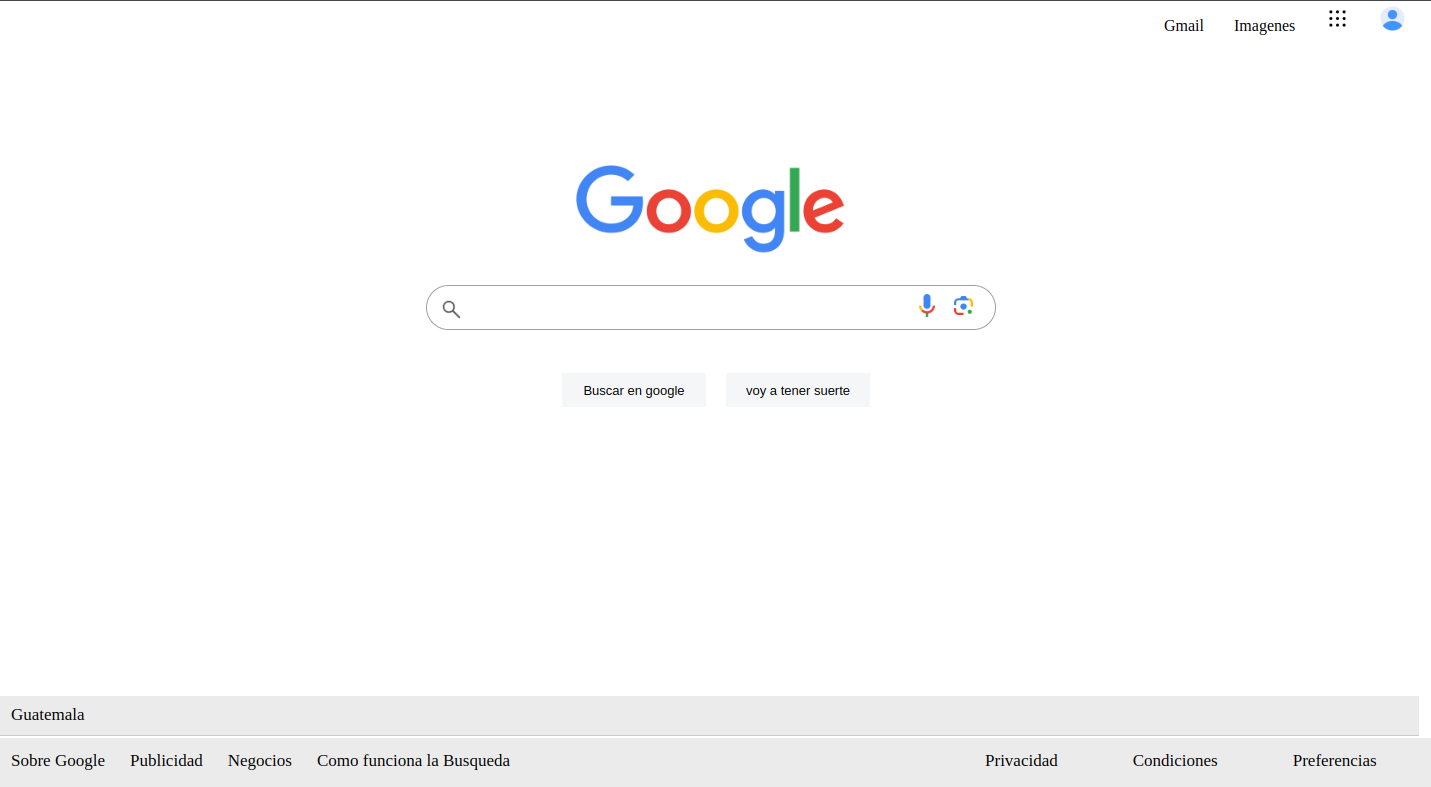
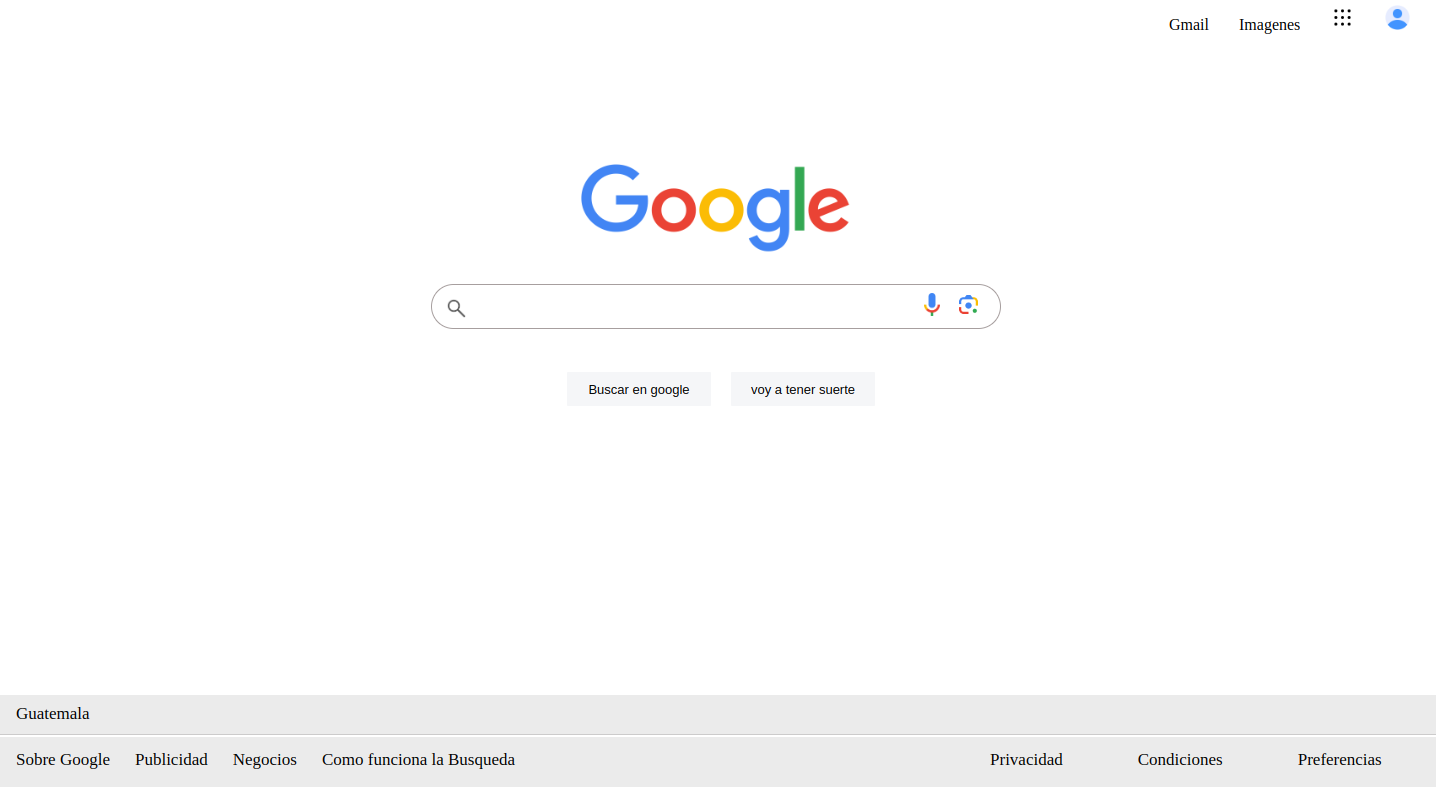
reemplazando foto de referencia de google

diff --git a/replicagoogle.css b/replicagoogle.css
@@ -77,7 +77,7 @@
     position: absolute;
     top: 695px;
     background-color:rgba(231, 231, 231, 0.836);
-    width: 1428px;
+    width: 100%;
     height: 40px;
 }
 #titulo{
